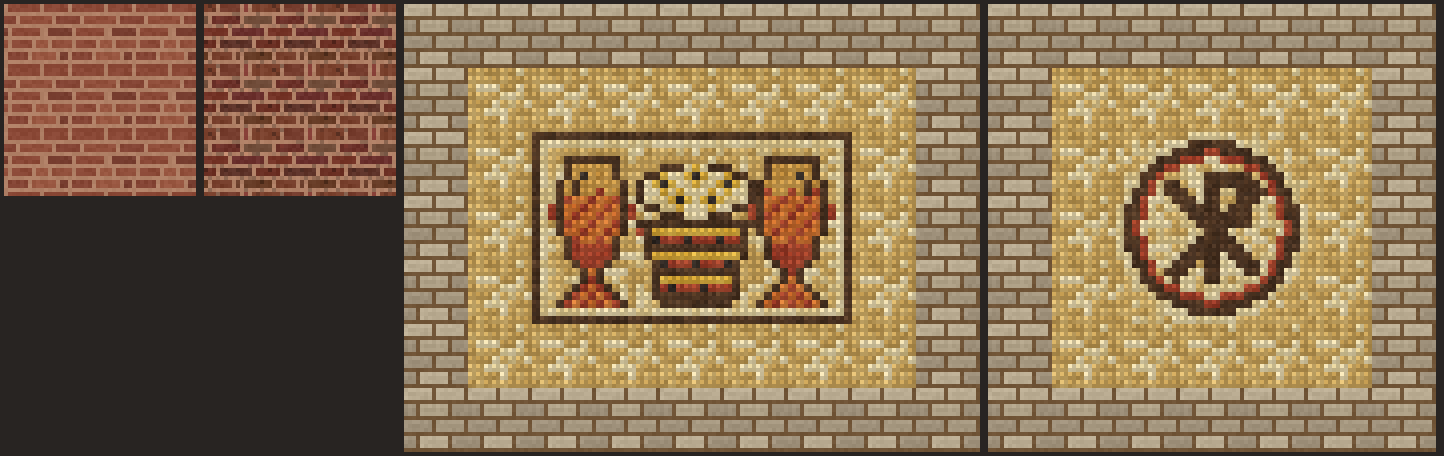
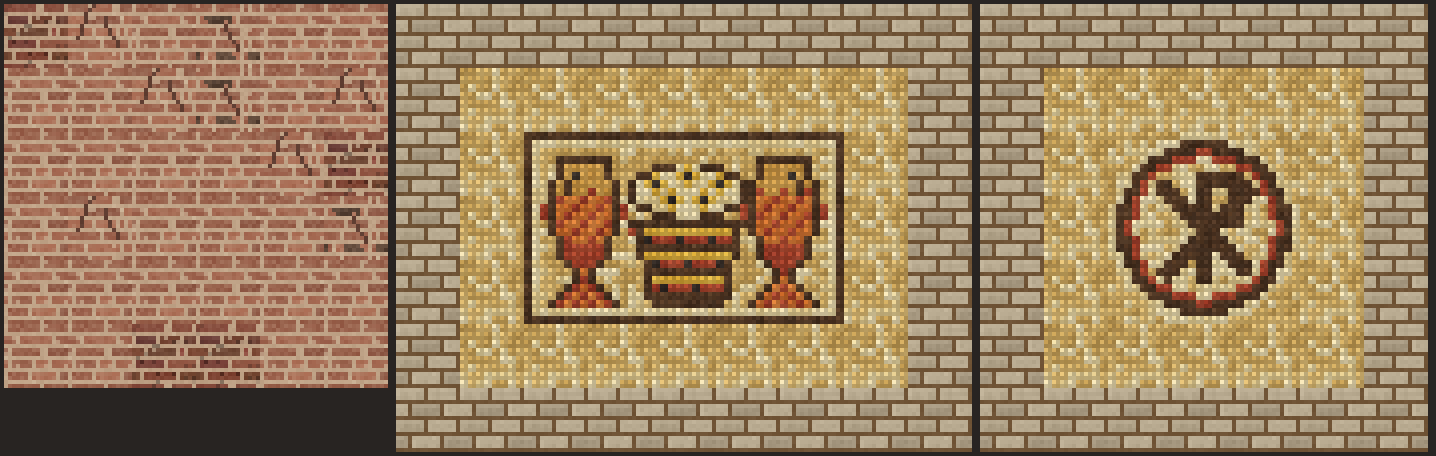
Aeltere Ziegel mit rissigen und bruechigen Sorten, Oellampe mit Kerzenflamme
- Ziegel ausgeblichen und alt (Kalkstaub, Ausbluehungen); neue Bloecke Cracked und Crumbling Roman Bricks
- Katakombe: Waende aus gemischten Ziegeln (alt, verwittert, rissig, bruechig); Wueste bleibt Sandstein
- Oellampe: Flamme wie bei Kerzen (Flammenteilchen, Rauch, Knistern) statt eigenem Flammenbild
- StructureBuilder.carve kann die Wand je Position waehlen

diff --git a/art/gen_catacomb_blocks.py b/art/gen_catacomb_blocks.py
@@ -26,8 +26,8 @@ OUT = os.path.join(ROOT, "art", "out")
 N = 16
 rng = random.Random(20261120)
 
-BRICK = [(132, 68, 52), (144, 78, 58), (120, 62, 48), (152, 86, 64), (138, 72, 54)]
-MORTAR = (176, 128, 102)       # kalkiger Moertel im Schatten: nur wenig heller als der Ziegel
+BRICK = [(146, 82, 62), (156, 90, 68), (134, 76, 58), (164, 98, 74), (142, 80, 60)]
+MORTAR = (188, 158, 130)       # alter, kalkiger Moertel
 
 GOLD = [(224, 186, 108), (214, 174, 96), (232, 196, 120), (204, 164, 88)]
 CREAM = [(240, 222, 168), (232, 208, 146), (246, 230, 184)]
@@ -49,9 +49,16 @@ def pick(lst):
     return rng.choice(lst)
 
 
-def bricks(weathered):
-    """Duenne Ziegel: fuenf Lagen zu je zwei Pixel Ziegel und einem Pixel Moertel (die erste Lage drei), kurze Stossfugen."""
+DUST = (212, 190, 162)         # Kalk und Staub: alte Ziegel bleichen aus
+RUBBLE = [(92, 70, 56), (80, 60, 48), (104, 80, 64)]
+CRACK = (96, 62, 50)
+
+
+def bricks(kind="aged"):
+    """Alte, ausgeblichene Ziegel (Ostia): fuenf duenne Lagen zu je zwei Pixel Ziegel und einem Pixel Moertel (die erste
+    Lage drei), kurze Stossfugen. Sorten: aged (Grundblock), weathered (dunkler, fleckig), cracked (Risse), crumbling (Luecken)."""
     im = Image.new("RGBA", (N, N))
+    bricks_at = []  # (Lage, x0, Laenge) fuer die Luecken
     for course in range(5):
         ys = [course * 3, course * 3 + 1] + ([15] if course == 0 else [])
         my = course * 3 + 2
@@ -59,24 +66,48 @@ def bricks(weathered):
         while x < N + 8:
             ln = rng.choice([6, 7, 8, 9])
             col = rng.choice(BRICK)
-            if weathered:
-                col = tuple(int(v * rng.uniform(0.7, 0.9)) for v in col)
+            if kind == "weathered":
+                col = tuple(int(v * rng.uniform(0.7, 0.88)) for v in col)
             for y in ys:
                 for dx in range(ln - 1):
                     im.putpixel(((x + dx) % N, y), jit(col, 6) + (255,))
                 im.putpixel(((x + ln - 1) % N, y), jit(MORTAR, 5) + (255,))
+            bricks_at.append((ys, x, ln))
             x += ln
         for xx in range(N):
-            c = jit(MORTAR, 5)
-            if weathered and rng.random() < 0.25:
-                c = tuple(int(v * 0.8) for v in c)
-            im.putpixel((xx, my), c + (255,))
-    if weathered:
-        for _ in range(22):  # Schmutz und Ausbluehungen
+            im.putpixel((xx, my), jit(MORTAR, 5) + (255,))
+    # Verblassen: jeder Pixel wird ein Stueck zum Kalkstaub gezogen, dazu helle Ausbluehungen
+    for y in range(N):
+        for x in range(N):
+            p = im.getpixel((x, y))[:3]
+            a = rng.uniform(0.08, 0.28) if kind != "weathered" else rng.uniform(0.0, 0.12)
+            im.putpixel((x, y), tuple(int(p[i] * (1 - a) + DUST[i] * a) for i in range(3)) + (255,))
+    for _ in range(10 if kind != "weathered" else 4):
+        x, y = rng.randrange(N), rng.randrange(N)
+        p = im.getpixel((x, y))[:3]
+        im.putpixel((x, y), tuple(min(255, int(v * 0.4 + DUST[i] * 0.6)) for i, v in enumerate(p)) + (255,))
+    if kind == "weathered":
+        for _ in range(26):  # Schmutz, Russ, dunkle Flecken
             x, y = rng.randrange(N), rng.randrange(N)
-            p = im.getpixel((x, y))
-            k = rng.choice([0.75, 0.85, 1.12])
-            im.putpixel((x, y), tuple(max(0, min(255, int(v * k))) for v in p[:3]) + (255,))
+            p = im.getpixel((x, y))[:3]
+            k = rng.choice([0.7, 0.8, 0.9])
+            im.putpixel((x, y), tuple(int(v * k) for v in p) + (255,))
+    if kind in ("cracked", "crumbling"):
+        for _ in range(2 if kind == "cracked" else 1):  # Risse: Zickzack von oben nach unten
+            x, y = rng.randrange(2, N - 2), rng.randrange(0, 4)
+            drift = rng.choice([-1, 1])  # Risse laufen schraeg in eine Richtung, nicht im Zickzack
+            for _ in range(rng.randint(6, 9)):
+                im.putpixel((x % N, y % N), jit(CRACK, 4) + (255,))
+                y += 1
+                if rng.random() < 0.35:
+                    x += drift
+    if kind == "crumbling":
+        picks = rng.sample(bricks_at, 4)
+        for ys, x0, ln in picks:  # ausgebrochene Ziegel: dunkler Schutt in der Luecke
+            for y in ys:
+                for dx in range(1, ln - 2):
+                    if rng.random() < 0.85:
+                        im.putpixel(((x0 + dx) % N, y), jit(pick(RUBBLE), 6) + (255,))
     return im
 
 
@@ -270,8 +301,10 @@ def split_picture(cells, cols, rows):
 
 PICTURES = {"mosaic_loaves": (5, 3, loaves_picture()), "mosaic_chi_rho": (3, 3, chi_rho_picture())}
 TEXTURES = {
-    "roman_bricks": bricks(False),
-    "roman_bricks_weathered": bricks(True),
+    "roman_bricks": bricks("aged"),
+    "roman_bricks_weathered": bricks("weathered"),
+    "roman_bricks_cracked": bricks("cracked"),
+    "roman_bricks_crumbling": bricks("crumbling"),
     "mosaic_plain": m_plain(),
     "mosaic_damaged": m_damaged(),
     "roman_floor": floor_tiles(),
@@ -287,6 +320,8 @@ NAMES = {
     "roman_brick_stairs": "Roman Brick Stairs",
     "roman_brick_slab": "Roman Brick Slab",
     "roman_bricks_weathered": "Weathered Roman Bricks",
+    "roman_bricks_cracked": "Cracked Roman Bricks",
+    "roman_bricks_crumbling": "Crumbling Roman Bricks",
     "roman_floor": "Roman Stone Floor",
     "mosaic_plain": "Mosaic Floor",
     "mosaic_damaged": "Damaged Mosaic Floor",
@@ -356,7 +391,7 @@ def main():
     # Bildbloecke eines frueheren Laufs mit mehr Teilen entfernen
     for name, im in TEXTURES.items():
         im.save(os.path.join(TEX, name + ".png"))
-    cubes = ["roman_bricks", "roman_bricks_weathered", "roman_floor", "mosaic_plain", "mosaic_damaged"]
+    cubes = ["roman_bricks", "roman_bricks_weathered", "roman_bricks_cracked", "roman_bricks_crumbling", "roman_floor", "mosaic_plain", "mosaic_damaged"]
     for c in cubes:
         w(os.path.join(A, "blockstates", c + ".json"), {"variants": {"": {"model": "scribery:block/" + c}}})
         w(os.path.join(A, "models", "block", c + ".json"),
@@ -415,14 +450,16 @@ def main():
     # Vorschau: Ziegel gekachelt, dann die zusammengesetzten Bilder in einem Rahmen aus schlichtem Mosaik
     Z = 4
     pad = N * Z
-    wide = N * Z * 3 * 2 + 8 * 4 + 9 * N * Z + 7 * N * Z + 8
+    wide = N * Z * 6 + 8 * 4 + 9 * N * Z + 7 * N * Z + 8
     sheet = Image.new("RGBA", (wide + 4 * pad, N * Z * 7 + 8), (40, 36, 34, 255))
     x0 = 4
-    for n in ("roman_bricks", "roman_bricks_weathered"):
-        for ty in range(3):
-            for tx in range(3):
-                sheet.paste(TEXTURES[n].resize((N * Z, N * Z), Image.NEAREST), (x0 + tx * N * Z, 4 + ty * N * Z))
-        x0 += N * Z * 3 + 8
+    mix = ["roman_bricks"] * 8 + ["roman_bricks_weathered"] * 3 + ["roman_bricks_cracked"] * 3 + ["roman_bricks_crumbling"] * 2
+    prng = random.Random(5)
+    for ty in range(6):  # eine Wand aus gemischten Ziegeln, wie in der Katakombe
+        for tx in range(6):
+            n = prng.choice(mix)
+            sheet.paste(TEXTURES[n].resize((N * Z, N * Z), Image.NEAREST), (x0 + tx * N * Z, 4 + ty * N * Z))
+    x0 += N * Z * 6 + 8
     for pic, (cols, rows, _) in PICTURES.items():
         for yy in range(rows + 4):
             for xx in range(cols + 4):

diff --git a/art/gen_lamp_amphora.py b/art/gen_lamp_amphora.py
@@ -97,20 +97,19 @@ def lamp_models():
         box([11, 2, 7], [14, 3.5, 9], "#lamp"),
         box([13, 3.5, 7.6], [14, 4.5, 8.4], "#lamp"),
     ]
-    tex = {"lamp": "scribery:block/oil_lamp", "flame": "scribery:block/oil_lamp_flame", "particle": "scribery:block/oil_lamp"}
+    tex = {"lamp": "scribery:block/oil_lamp", "particle": "scribery:block/oil_lamp"}
     unlit = {"textures": tex, "elements": base}
-    flame = [
-        {"from": [13.5, 4.5, 6.5], "to": [13.5, 8, 9.5], "faces": {"east": {"texture": "#flame"}, "west": {"texture": "#flame"}}},
-        {"from": [12, 4.5, 8], "to": [15, 8, 8], "faces": {"north": {"texture": "#flame"}, "south": {"texture": "#flame"}}},
-    ]
-    lit = {"render_type": "minecraft:cutout", "textures": tex, "elements": base + flame}
+    # Wie bei Kerzen gibt es kein Flammenmodell: Die Flamme sind die kleinen Flammenteilchen des Spiels (siehe OilLampBlock).
+    lit = {"textures": tex, "elements": base}
     return unlit, lit
 
 
 def main():
     os.makedirs(TEX, exist_ok=True)
     lamp_texture().save(os.path.join(TEX, "oil_lamp.png"))
-    flame_texture().save(os.path.join(TEX, "oil_lamp_flame.png"))
+    flame_file = os.path.join(TEX, "oil_lamp_flame.png")
+    if os.path.exists(flame_file):
+        os.remove(flame_file)  # frueher gab es ein eigenes Flammenbild; jetzt wie bei Kerzen nur Teilchen
     storage_texture().save(os.path.join(TEX, "amphora_storage.png"))
     lid_texture().save(os.path.join(TEX, "amphora_lid.png"))
     unlit, lit = lamp_models()

diff --git a/mod/src/main/java/de/scribery/StructureBuilder.java b/mod/src/main/java/de/scribery/StructureBuilder.java
@@ -88,6 +88,12 @@ final class StructureBuilder {
 
     /** Wie die Variante mit einem Boden, aber der Boden wird je Position gewaehlt (z. B. Mosaike). */
     void carve(Set<BlockPos> cells, BlockState wall, java.util.function.Function<BlockPos, BlockState> floor) {
+        carve(cells, p -> wall, floor);
+    }
+
+    /** Wand und Boden werden je Position gewaehlt (z. B. gemischte, teils brueechige Ziegel). */
+    void carve(Set<BlockPos> cells, java.util.function.Function<BlockPos, BlockState> wall,
+               java.util.function.Function<BlockPos, BlockState> floor) {
         Set<BlockPos> shell = new HashSet<>();
         Set<BlockPos> floors = new HashSet<>();
         for (BlockPos p : cells) {
@@ -98,7 +104,7 @@ final class StructureBuilder {
                 else shell.add(n);
             }
         }
-        for (BlockPos p : shell) if (!floors.contains(p)) put(p, wall);
+        for (BlockPos p : shell) if (!floors.contains(p)) put(p, wall.apply(p));
         for (BlockPos p : floors) put(p, floor.apply(p));
         for (BlockPos p : cells) {
             level.setBlock(p, level.getFluidState(p).is(FluidTags.WATER) ? Blocks.WATER.defaultBlockState() : Blocks.AIR.defaultBlockState(), Block.UPDATE_CLIENTS);

diff --git a/mod/src/main/java/de/scribery/DebugStructures.java b/mod/src/main/java/de/scribery/DebugStructures.java
@@ -249,7 +249,15 @@ final class DebugStructures {
         for (int u : new int[] { 14, 27 }) b.cells(cells, u, u, 0, 0, -5, -1);
         // Der Boden ist normaler Steinboden im Stil des Mosaiks; Mosaik liegt nur an zwei Stellen: das Bild mit Broten und
         // Fischen im Gedenkraum und das Chi-Rho in der Grabkammer, jeweils mit einem Rand aus schlichten Steinchen.
-        b.carve(cells, wall, ModBlocks.ROMAN_FLOOR.get().defaultBlockState());
+        // Waende: alte Ziegel, dazwischen verwitterte, rissige und bruechige
+        b.carve(cells, p -> {
+            if (desert) return wall;
+            int r = b.random.nextInt(100);
+            if (r < 62) return ModBlocks.ROMAN_BRICKS.get().defaultBlockState();
+            if (r < 78) return ModBlocks.ROMAN_BRICKS_WEATHERED.get().defaultBlockState();
+            if (r < 92) return ModBlocks.ROMAN_BRICKS_CRACKED.get().defaultBlockState();
+            return ModBlocks.ROMAN_BRICKS_CRUMBLING.get().defaultBlockState();
+        }, p -> ModBlocks.ROMAN_FLOOR.get().defaultBlockState());
         mosaicPicture(b, ModBlocks.MOSAIC_LOAVES.get(), 5, 3, b.at(35, 0, -9));
         mosaicPicture(b, ModBlocks.MOSAIC_CHI_RHO.get(), 3, 3, b.at(24, 8, -9));
 

diff --git a/mod/src/main/java/de/scribery/OilLampBlock.java b/mod/src/main/java/de/scribery/OilLampBlock.java
@@ -102,8 +102,16 @@ public class OilLampBlock extends Block {
     @Override
     public void animateTick(BlockState state, Level level, BlockPos pos, RandomSource random) {
         if (!state.getValue(LIT)) return;
-        double x = pos.getX() + 13.5 / 16.0, y = pos.getY() + 5.0 / 16.0, z = pos.getZ() + 0.5;
-        if (random.nextInt(3) == 0) level.addParticle(ParticleTypes.SMALL_FLAME, x, y + 0.1, z, 0, 0, 0);
-        if (random.nextInt(8) == 0) level.addParticle(ParticleTypes.SMOKE, x, y + 0.25, z, 0, 0.01, 0);
+        // Dieselbe Flamme wie bei Kerzen (CandleBlock): kleine Flammenteilchen, ab und zu Rauch und Knistern
+        double x = pos.getX() + 13.5 / 16.0, y = pos.getY() + 4.5 / 16.0 + 0.125, z = pos.getZ() + 0.5;
+        float f = random.nextFloat();
+        if (f < 0.3F) {
+            level.addParticle(ParticleTypes.SMOKE, x, y, z, 0.0, 0.0, 0.0);
+            if (f < 0.17F) {
+                level.playLocalSound(x, y, z, SoundEvents.CANDLE_AMBIENT, SoundSource.BLOCKS, 1.0F + random.nextFloat(),
+                        random.nextFloat() * 0.7F + 0.3F, false);
+            }
+        }
+        level.addParticle(ParticleTypes.SMALL_FLAME, x, y, z, 0.0, 0.0, 0.0);
     }
 }

diff --git a/mod/src/main/java/de/scribery/ModBlocks.java b/mod/src/main/java/de/scribery/ModBlocks.java
@@ -139,6 +139,11 @@ public final class ModBlocks {
                     .sound(SoundType.DECORATED_POT).noOcclusion()));
     /** Normaler Steinboden im Stil des Mosaiks: der Boden um die Mosaikbilder. */
     public static final DeferredBlock<Block> ROMAN_FLOOR = catacomb("roman_floor", () -> new Block(mosaicProps()));
+    /** Rissige und bruechige Ziegel: zwischen die alten Ziegel gemischt. */
+    public static final DeferredBlock<Block> ROMAN_BRICKS_CRACKED = catacomb("roman_bricks_cracked",
+            () -> new Block(brickProps().strength(1.2F, 4.0F)));
+    public static final DeferredBlock<Block> ROMAN_BRICKS_CRUMBLING = catacomb("roman_bricks_crumbling",
+            () -> new Block(brickProps().strength(0.8F, 3.0F)));
     public static final DeferredBlock<Block> MOSAIC_PLAIN = catacomb("mosaic_plain", () -> new Block(mosaicProps()));
     public static final DeferredBlock<Block> MOSAIC_DAMAGED = catacomb("mosaic_damaged", () -> new Block(mosaicProps().strength(0.8F, 3.0F)));
     /** Mosaikbilder aus 3 x 3 Bloecken (Eigenschaft part), siehe MosaicPictureBlock. */
